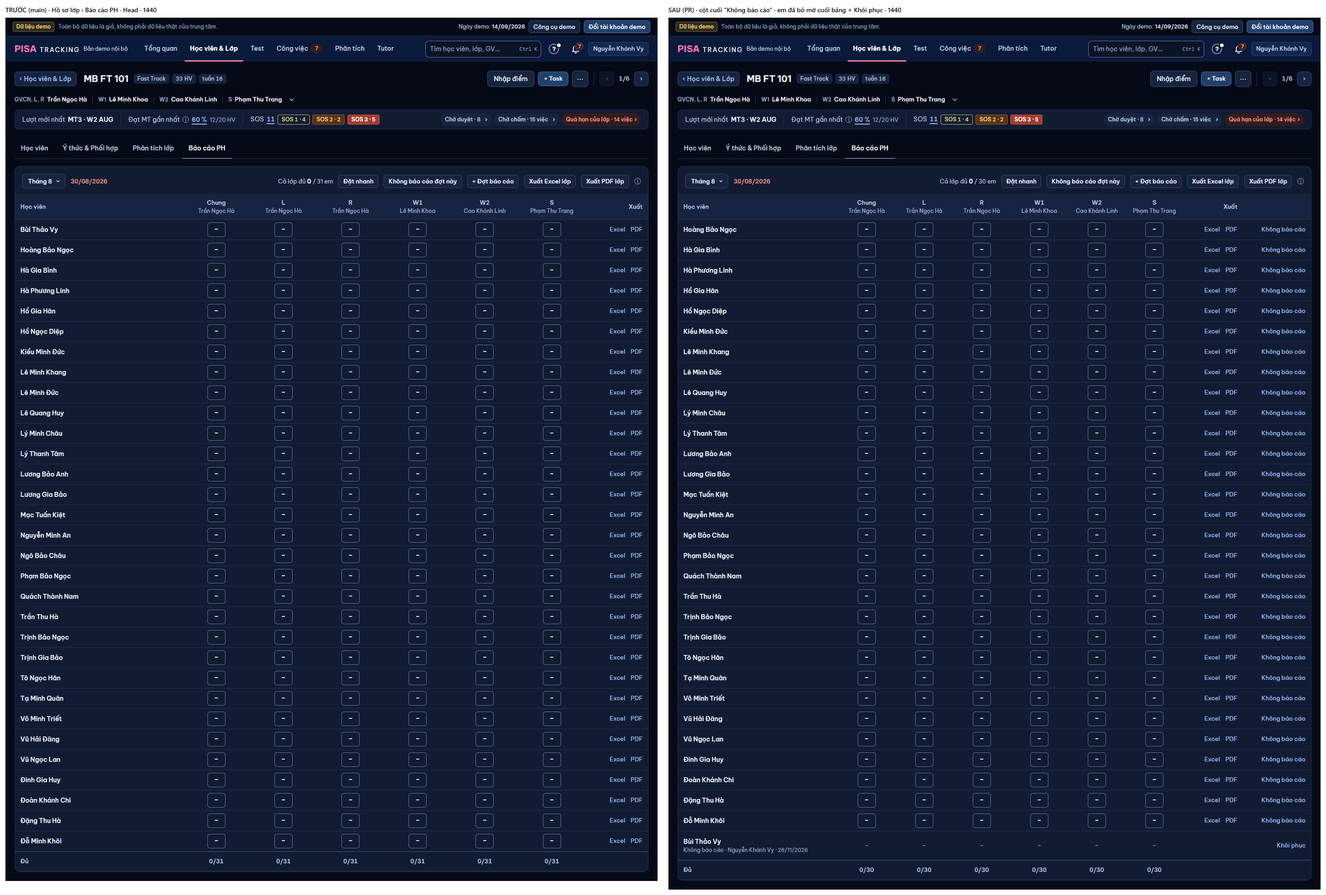
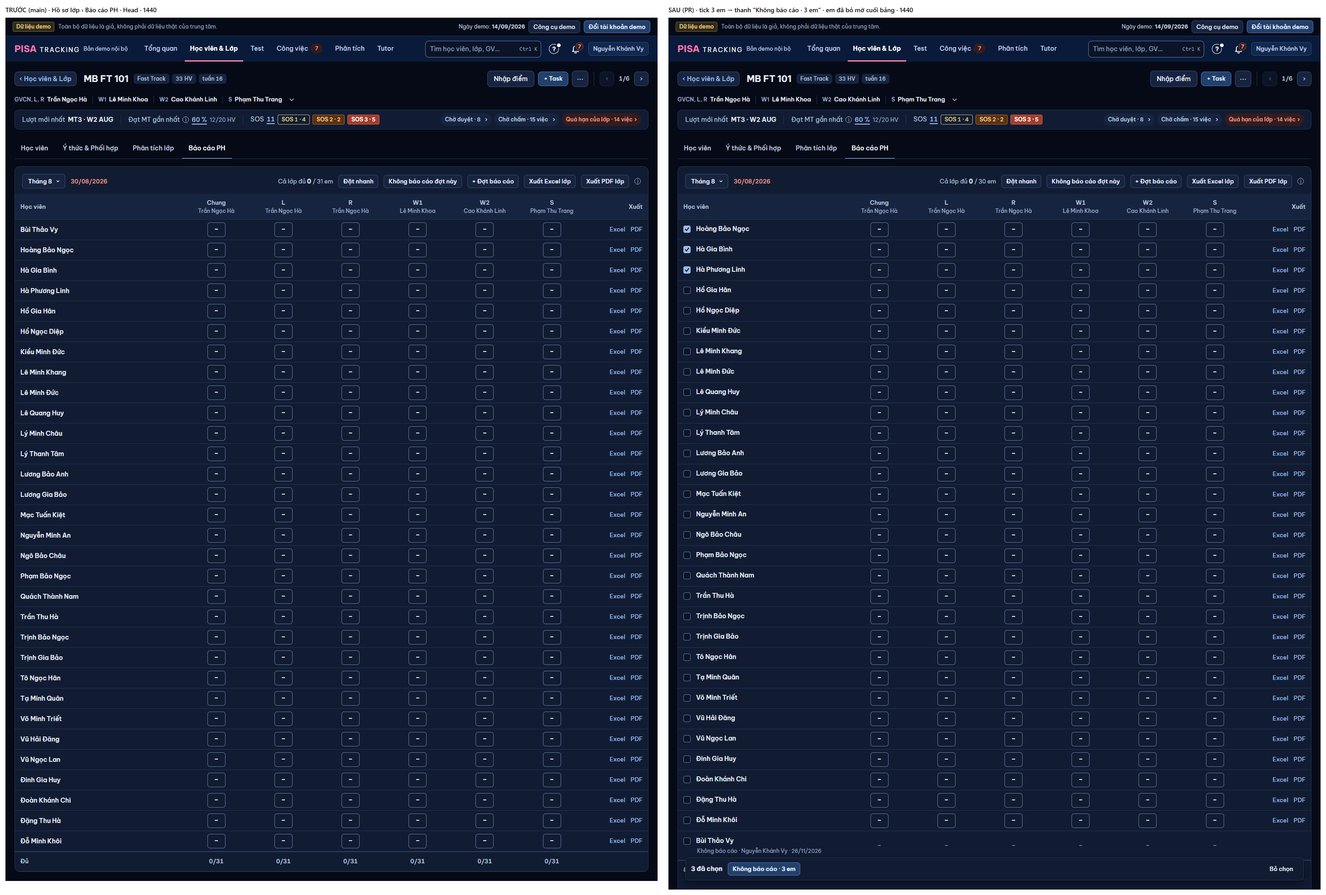
chọn nhiều em (chủ SP 'cho chọn tick nhiều đi'): API lô studentIds, ô tick + thanh dính đáy, một Hoàn tác; ảnh cặp mới

diff --git a/web/src/modules/classes/TabBaoCaoPh.tsx b/web/src/modules/classes/TabBaoCaoPh.tsx
@@ -16,6 +16,7 @@ import { ChonNguoi } from '../../ui/PeoplePicker.tsx';
 import { ChuLuu, type TtLuu } from '../../ui/KhuonViec.tsx';
 import { ODiem } from '../../ui/ODiem.tsx';
 import { HopDotBaoCaoPh, guiDotBc, lamMoiBaoCaoPh } from './HopDotBaoCaoPh.tsx';
+import { OChon, ThanhChonNhieu, useChonNhieu } from '../students/chonNhieuHocVien.tsx';
 import { ChipHan, Nhan } from '../../ui/Nhan.tsx';
 import { NutLuat } from '../../ui/NutLuat.tsx';
 import { useDienThoai } from '../../ui/TheDong.tsx';
@@ -86,6 +87,10 @@ export function TabBaoCaoPh({ lopId, ct, dot, onDot, onDuHet, onDoiDot, viet, on
   const dt = useDienThoai();
   const bo = useMemo(() => boPhanBc(ct), [ct]);
   const toast = useToast();
+  /* BO-BAO-CAO-PH (chủ SP 26/11 "cho chọn tick nhiều đi"): tick em (Head / Quản trị / Admin) → thanh dính đáy "Không báo cáo · n em" / "Khôi phục · n em". Đổi đợt = bỏ chọn. */
+  const chonGoc = useChonNhieu();
+  const [dangBo, setDangBo] = useState(false);
+  useEffect(() => chonGoc.tatCa([], false), [lopId, dot]);   // eslint-disable-line react-hooks/exhaustive-deps
   /* Xuất Excel (PR b) / PDF (BCPH-PDF): `null` = không đang xuất · "xlsx:0" = cả lớp · "pdf:{id em}". File = ảnh lúc bấm; không đánh dấu "đã xuất". */
   const [dangXuat, setDangXuat] = useState<string | null>(null);
   const [td, setTd] = useState<[number, number] | null>(null);   // tiến độ PDF cả lớp: [em đang dựng, tổng]
@@ -140,22 +145,36 @@ export function TabBaoCaoPh({ lopId, ct, dot, onDot, onDuHet, onDoiDot, viet, on
       sauDoi(null);
     } catch (e) { loiToast(e); }
   };
-  /* BO-BAO-CAO-PH (chủ SP 26/11): bỏ / khôi phục báo cáo của MỘT em đợt này — làm ngay, toast Hoàn tác (không hộp hỏi: khôi phục được, bài đã viết giữ). */
-  const boEm = async (e: { id: number; ten: string }, khoiPhuc: boolean) => {
-    const gui = (kp: boolean) => api.post(`/classes/${lopId}/bao-cao-ph/bo-em`, { dot: data.dot, studentId: e.id, khoiPhuc: kp });
+  /* BO-BAO-CAO-PH: bỏ / khôi phục báo cáo các em đã tick, đợt này — làm ngay, MỘT toast Hoàn tác cho cả lô (không hộp hỏi: khôi phục được, bài đã viết giữ). */
+  const chon = { ...chonGoc, bat: data.quyetDot };
+  const daChon = tatCa.filter((e) => chonGoc.chon.has(e.id));
+  const chonCan = daChon.filter((e) => !e.bo), chonBo = daChon.filter((e) => e.bo);
+  const boEm = async (ds: { id: number; ten: string }[], khoiPhuc: boolean) => {
+    if (!ds.length || dangBo) return;
+    const gui = async (ids: number[], kp: boolean) => (await api.post<{ doi: number[] }>(`/classes/${lopId}/bao-cao-ph/bo-em`, { dot: data.dot, studentIds: ids, khoiPhuc: kp })).doi;
+    const nhan = ds.length === 1
+      ? t(khoiPhuc ? 'Đã khôi phục báo cáo · {ten}' : 'Không báo cáo · {ten}', { ten: ds[0].ten })
+      : t(khoiPhuc ? 'Đã khôi phục báo cáo · {n} em' : 'Không báo cáo · {n} em', { n: ds.length });
+    setDangBo(true);
     try {
-      await gui(khoiPhuc); lamMoiBaoCaoPh();
-      toast.hoanTac(t(khoiPhuc ? 'Đã khôi phục báo cáo · {ten}' : 'Không báo cáo · {ten}', { ten: e.ten }), async () => {
-        try { await gui(!khoiPhuc); lamMoiBaoCaoPh(); toast.push('ok', t('Đã hoàn tác')); sauDoi(); } catch (x) { loiToast(x); }
-      }, { key: `bc-bo-em:${lopId}:${e.id}` });
+      const doi = await gui(ds.map((e) => e.id), khoiPhuc); lamMoiBaoCaoPh();
+      chonGoc.tatCa([], false);
+      if (doi.length) {
+        toast.hoanTac(nhan, async () => {
+          try { await gui(doi, !khoiPhuc); lamMoiBaoCaoPh(); toast.push('ok', t('Đã hoàn tác')); sauDoi(); } catch (x) { loiToast(x); }
+        }, { key: `bc-bo-em:${lopId}` });
+      }
       sauDoi();
-    } catch (x) { loiToast(x); }
+    } catch (x) { loiToast(x); } finally { setDangBo(false); }
   };
-  /* Một việc mỗi dòng → link bấm thẳng cùng dáng link Excel / PDF (S4-GD: ⋯ một mục = nút thẳng); em đã bỏ: "Khôi phục" đúng chỗ đó. */
-  const nutBoEm = (e: { id: number; ten: string; bo: unknown }, lop = '') => (e.bo
-    ? <button type="button" className={`link-nho min-h-[44px] font-medium sm:min-h-0 ${lop}`} aria-label={t('Khôi phục báo cáo · {ten}', { ten: e.ten })} onClick={() => void boEm(e, true)}>{t('Khôi phục')}</button>
-    : <button type="button" className={`link-nho min-h-[44px] font-medium sm:min-h-0 ${lop}`} aria-label={t('Không báo cáo · {ten}', { ten: e.ten })}
-      title={t('Chỉ đợt {dot}; bài đã viết giữ nguyên', { dot: dich(dotHien?.nhan ?? '') })} onClick={() => void boEm(e, false)}>{t('Không báo cáo')}</button>);
+  const thanhChon = data.quyetDot && (
+    <ThanhChonNhieu chon={chon} dangChay={dangBo} onViec={(k) => void boEm(k === 'bo' ? chonCan : chonBo, k !== 'bo')}
+      viec={[
+        ...(chonCan.length ? [{ key: 'bo', nhan: t('Không báo cáo · {n} em', { n: chonCan.length }), chinh: true }] : []),
+        ...(chonBo.length ? [{ key: 'khoi-phuc', nhan: t('Khôi phục · {n} em', { n: chonBo.length }), chinh: !chonCan.length }] : []),
+      ]} />
+  );
+  const oTick = (e: { id: number; ten: string }) => data.quyetDot && <OChon chon={chon} id={e.id} ten={e.ten} />;
   const nhanBo = (b: { ten: string | null; luc: string }) => [t('Không báo cáo'), b.ten, b.luc ? ngay(b.luc.slice(0, 10), homNay) : null].filter(Boolean).join(' · ');
   const nutDot = 'btn btn-sm min-h-[44px] font-semibold sm:min-h-0';
   /* Phần người xem đặt nhanh được = phần viết được (GV đúng phần · QL viết hộ — như quyền máy chủ) có tiêu chí. */
@@ -279,8 +298,7 @@ export function TabBaoCaoPh({ lopId, ct, dot, onDot, onDuHet, onDoiDot, viet, on
               <li key={e.id} className="py-2">
                 {/* BO-BAO-CAO-PH: "Không báo cáo" trên dòng tên — dòng Thiếu / Nháp giữ cả bề ngang. */}
                 <div className="flex items-center justify-between gap-2">
-                  <Link className="ten-ho-so min-w-0 text-[14px]" to={`/hoc-vien/${e.id}`}>{e.ten}</Link>
-                  {data.quyetDot && nutBoEm(e, 'shrink-0')}
+                  <span className="inline-flex min-w-0 items-center gap-2">{oTick(e)}<Link className="ten-ho-so min-w-0 text-[14px]" to={`/hoc-vien/${e.id}`}>{e.ten}</Link></span>
                 </div>
                 {!thieu.length && !nhap.length && <div className="text-[13px] text-slate-400">✓ {t('đủ')}</div>}
                 {thieu.length > 0 && <div className="flex flex-wrap items-center gap-x-1 text-[13px] text-slate-400">{t('Thiếu')} {thieu.map((p, i) => <Fragment key={p.khoa}>{i > 0 && <span aria-hidden>·</span>}{nutPhan(p)}</Fragment>)}</div>}
@@ -294,12 +312,9 @@ export function TabBaoCaoPh({ lopId, ct, dot, onDot, onDuHet, onDoiDot, viet, on
         {emBo.length > 0 && (
           <ul className="m-0 mt-2 list-none divide-y border-t p-0" style={{ borderColor: 'var(--line)' }}>
             {emBo.map((e) => (
-              <li key={e.id} className="row-muted flex items-center gap-2 py-2">
-                <div className="min-w-0 flex-1">
-                  <Link className="ten-ho-so text-[14px]" to={`/hoc-vien/${e.id}`}>{e.ten}</Link>
-                  <div className="text-[13px]">{nhanBo(e.bo!)}</div>
-                </div>
-                {data.quyetDot && nutBoEm(e, 'shrink-0')}
+              <li key={e.id} className="row-muted py-2">
+                <span className="inline-flex min-w-0 items-center gap-2">{oTick(e)}<Link className="ten-ho-so min-w-0 text-[14px]" to={`/hoc-vien/${e.id}`}>{e.ten}</Link></span>
+                <div className="text-[13px]">{nhanBo(e.bo!)}</div>
               </li>
             ))}
           </ul>
@@ -308,6 +323,7 @@ export function TabBaoCaoPh({ lopId, ct, dot, onDot, onDuHet, onDoiDot, viet, on
           <span>{t('Đủ')} /{em.length}</span>
           {data.phan.map((p) => <span key={p.khoa}>{p.ngan} <b className="tabular-nums text-slate-100">{em.filter((e) => e.o[p.khoa] === 'du').length}</b></span>)}
         </div>
+        {thanhChon}
         {panel}
         {hopDot}
       </section>
@@ -321,17 +337,15 @@ export function TabBaoCaoPh({ lopId, ct, dot, onDot, onDuHet, onDoiDot, viet, on
       <div className="bang-bc -mx-4 -mb-4 overflow-clip rounded-b-[inherit]">
         <Bang ten={`${t('Báo cáo PH')} · ${dich(dotHien!.nhan)}`} khung={false} the375={false} deu khoa={(e) => e.id} hang={[...em, ...emBo]}
           lopHang={(e) => (e.bo ? 'row-muted' : '')}
-          phuCua={(e, c) => (c.key === 'ten' && e.bo ? nhanBo(e.bo) : null)}
+          phuCua={(e, c) => (c.key === 'ten' && e.bo ? <span className={data.quyetDot ? 'pl-[30px]' : undefined}>{nhanBo(e.bo)}</span> : null)}   /* thẳng tên (ô tick 18 + khe 12) */
           cot={[
             { key: 'ten', nhan: t('Học viên'), kieu: 'ten', rong: 300 },
-            ...data.phan.map((p): CotBang => ({ key: p.khoa, nhan: p.ngan, phu: tenGv(p), kieu: 'so', rong: data.quyetDot ? 108 : 120, goiY: p.ten })),   // BO-BAO-CAO-PH: + cột "Không báo cáo" vẫn vừa 1280
+            ...data.phan.map((p): CotBang => ({ key: p.khoa, nhan: p.ngan, phu: tenGv(p), kieu: 'so', rong: 120, goiY: p.ten })),
             ...(data.xuat ? [{ key: 'xuat', nhan: t('Xuất'), kieu: 'nut', rong: 112 } as CotBang] : []),
-            ...(data.quyetDot ? [{ key: 'nut', nhan: t('Không báo cáo'), anNhan: true, kieu: 'nut', rong: 128 } as CotBang] : []),
           ]}
           oCua={(e, c) => {
-            if (c.key === 'ten') return <Link className="ten-hv ten-ho-so" to={`/hoc-vien/${e.id}`}>{e.ten}</Link>;
-            /* BO-BAO-CAO-PH: dòng em đã bỏ — ô phần "–" mờ (không viết, không đếm), không Xuất; cột cuối "Không báo cáo" / "Khôi phục". */
-            if (c.key === 'nut') return nutBoEm(e);
+            if (c.key === 'ten') return <span className="inline-flex min-w-0 items-center gap-3">{oTick(e)}<Link className="ten-hv ten-ho-so" to={`/hoc-vien/${e.id}`}>{e.ten}</Link></span>;
+            /* BO-BAO-CAO-PH: dòng em đã bỏ — ô phần "–" mờ (không viết, không đếm), không Xuất; tick để Khôi phục. */
             if (e.bo) return c.key === 'xuat' ? null : <><span aria-hidden>–</span><span className="sr-only">{t('Không báo cáo')}</span></>;
             if (c.key === 'xuat') {
               return (
@@ -358,10 +372,10 @@ export function TabBaoCaoPh({ lopId, ct, dot, onDot, onDuHet, onDoiDot, viet, on
               <td className="td" data-kieu="ten">{t('Đủ')}</td>
               {data.phan.map((p) => <td key={p.khoa} className="td" data-kieu="so">{em.filter((e) => e.o[p.khoa] === 'du').length}/{em.length}</td>)}
               {data.xuat && <td className="td" data-kieu="nut" />}
-              {data.quyetDot && <td className="td" data-kieu="nut" />}
             </tr>
           )} />
       </div>
+      {thanhChon}
       {panel}
       {hopDot}
     </section>

diff --git a/server/src/tests/prBaoCaoPh.tests.ts b/server/src/tests/prBaoCaoPh.tests.ts
@@ -590,19 +590,19 @@ export async function runPrBaoCaoPhTests(t: { check: any; assert: any; assertThr
     const tvv = nguoi('consultant', 'MB');
     for (const x of [P.lrTeacher, P.coreTeacher, tvv, P.cpManager].filter(Boolean)) {
       let ma403 = 0;
-      try { bc.boEmBaoCaoPh(x, lop, { dot: ma, studentId: e0.id }); } catch (err: any) { ma403 = err?.status ?? -1; }
+      try { bc.boEmBaoCaoPh(x, lop, { dot: ma, studentIds: [e0.id] }); } catch (err: any) { ma403 = err?.status ?? -1; }
       assert(ma403 === 403, `${x.fullName}: phải 403, được ${ma403}`);
     }
     assert(bc.trangBaoCaoPh(P.lrTeacher, lop, ma).quyetDot === false, 'GV không thấy ⋯ Không báo cáo');
-    assertThrows(() => bc.boEmBaoCaoPh(P.mbManager, lop, { dot: 'thang:2099-01', studentId: e0.id }), /./, 'đợt chưa mở');
-    assertThrows(() => bc.boEmBaoCaoPh(P.mbManager, lop, { dot: ma, studentId: 99999999 }), /./, 'em lạ');
-    assertThrows(() => bc.boEmBaoCaoPh(P.mbManager, lop, { dot: ma, studentId: e0.id, khoiPhuc: 'true' }), /./, 'khoiPhuc không phải boolean → 400');
+    assertThrows(() => bc.boEmBaoCaoPh(P.mbManager, lop, { dot: 'thang:2099-01', studentIds: [e0.id] }), /./, 'đợt chưa mở');
+    assertThrows(() => bc.boEmBaoCaoPh(P.mbManager, lop, { dot: ma, studentIds: [99999999] }), /./, 'em lạ');
+    assertThrows(() => bc.boEmBaoCaoPh(P.mbManager, lop, { dot: ma, studentIds: [e0.id], khoiPhuc: 'true' }), /./, 'khoiPhuc không phải boolean → 400');
     /* em CÓ THẬT của lớp khác (cùng chi nhánh) qua id lớp mình → 404, không ghi */
     const lopKhac = classId('MB FT 102');
     const emKhac = (conn.prepare("SELECT student_id id FROM enrollments WHERE class_id = ? AND status = 'active' AND student_id NOT IN (SELECT student_id FROM enrollments WHERE class_id = ?) LIMIT 1").get(lopKhac, lop) as any)?.id;
     if (emKhac) {
       let ma404 = 0;
-      try { bc.boEmBaoCaoPh(P.mbManager, lop, { dot: ma, studentId: emKhac }); } catch (err: any) { ma404 = err?.status ?? -1; }
+      try { bc.boEmBaoCaoPh(P.mbManager, lop, { dot: ma, studentIds: [emKhac] }); } catch (err: any) { ma404 = err?.status ?? -1; }
       assert(ma404 === 404 && !(conn.prepare('SELECT 1 FROM bao_cao_ph_bo_em WHERE student_id = ?').get(emKhac)), `em lớp khác: phải 404, được ${ma404}`);
     }
     /* bỏ theo LỚP: dòng bỏ ghi ở lớp khác (cùng mã đợt) không làm em rời lớp này */
@@ -614,11 +614,11 @@ export async function runPrBaoCaoPhTests(t: { check: any; assert: any; assertThr
     /* Head bỏ — đo câu */
     xoaNho();
     const c0 = soCauSql();
-    const r = bc.boEmBaoCaoPh(P.mbManager, lop, { dot: ma, studentId: e0.id });
+    const r = bc.boEmBaoCaoPh(P.mbManager, lop, { dot: ma, studentIds: [e0.id] });
     const cau = soCauSql() - c0;
     console.log(`    đo bỏ báo cáo một em: ${cau} câu`);
-    assert(r.doi === true && cau <= 14, `trần câu bỏ một em: ${cau}`);   // lớp + đợt (tiến độ, tuỳ chỉnh) + em + ghi + nhật ký + đếm lớp đủ / tin Admin
-    assert(bc.boEmBaoCaoPh(P.mbManager, lop, { dot: ma, studentId: e0.id }).doi === false, 'bỏ lặp: không lỗi, không ghi thêm');
+    assert(r.doi.join() === String(e0.id) && cau <= 14, `trần câu bỏ một em: ${cau}`);   // lớp + đợt (tiến độ, tuỳ chỉnh) + em + ghi + nhật ký + đếm lớp đủ / tin Admin
+    assert(bc.boEmBaoCaoPh(P.mbManager, lop, { dot: ma, studentIds: [e0.id] }).doi.length === 0, 'bỏ lặp: không lỗi, không ghi thêm');
     xoaNho();
     const sau = bc.trangBaoCaoPh(P.mbManager, lop, ma);
     const s0 = sau.em.find((e: any) => e.id === e0.id);
@@ -657,12 +657,38 @@ export async function runPrBaoCaoPhTests(t: { check: any; assert: any; assertThr
     assert(nk.n === 1, 'nhật ký một dòng theo em');
 
     /* Hoàn tác (= Khôi phục) → em trở lại mọi nơi */
-    assert(bc.boEmBaoCaoPh(P.mbManager, lop, { dot: ma, studentId: e0.id, khoiPhuc: true }).doi === true, 'khôi phục');
+    assert(bc.boEmBaoCaoPh(P.mbManager, lop, { dot: ma, studentIds: [e0.id], khoiPhuc: true }).doi.length === 1, 'khôi phục');
     xoaNho();
     assert(bc.trangBaoCaoPh(P.mbManager, lop, ma).em.find((e: any) => e.id === e0.id)?.bo === null, 'tab: em trở lại bình thường');
     assert(cuaS()[0]?.soEm === n && cuaS()[0]?.thieu === 1, 'việc GV S trở lại, thiếu đúng em vừa khôi phục');
     assert(bc.phanBaoCaoPh(P.lrTeacher, lop, ma, 'listening').em.find((e: any) => e.id === e0.id)?.banGhi?.chu === 'Gõ nốt', 'chữ đã gõ còn');
-    if (admin) assert(dq && bc.boEmBaoCaoPh(admin, lop, { dot: ma, studentId: e0.id }).doi === true, 'Admin bỏ được');
+    if (admin) assert(dq && bc.boEmBaoCaoPh(admin, lop, { dot: ma, studentIds: [e0.id] }).doi.length === 1, 'Admin bỏ được');
+    if (admin) bc.boEmBaoCaoPh(admin, lop, { dot: ma, studentIds: [e0.id], khoiPhuc: true });
+
+    /* LÔ (chủ SP "cho chọn tick nhiều đi"): bỏ 3 em một lần — số câu không theo số em; một em lạ → 404 cả lô, không ghi; Hoàn tác lô trả đủ */
+    const ba = tr.em.slice(1, 4).map((e: any) => e.id);
+    let maLo = 0;
+    try { bc.boEmBaoCaoPh(P.mbManager, lop, { dot: ma, studentIds: [...ba, 99999999] }); } catch (err: any) { maLo = err?.status ?? -1; }
+    assert(maLo === 404 && !(conn.prepare(`SELECT 1 FROM bao_cao_ph_bo_em WHERE dot = ? AND class_id = ? AND student_id IN (${ba.join(',')})`).get(ma, lop)), 'lô có em lạ: 404, không ghi em nào');
+    assertThrows(() => bc.boEmBaoCaoPh(P.mbManager, lop, { dot: ma, studentIds: [] }), /./, 'lô rỗng');
+    assertThrows(() => bc.boEmBaoCaoPh(P.mbManager, lop, { dot: ma, studentIds: Array.from({ length: 201 }, (_, i) => i + 1) }), /./, 'quá 200 em');
+    let ma403lo = 0;
+    try { bc.boEmBaoCaoPh(P.lrTeacher, lop, { dot: ma, studentIds: ba }); } catch (err: any) { ma403lo = err?.status ?? -1; }
+    assert(ma403lo === 403, 'GV bỏ lô → 403');
+    xoaNho();
+    const cl = soCauSql();
+    const lo = bc.boEmBaoCaoPh(P.mbManager, lop, { dot: ma, studentIds: [...ba, e0.id] });
+    const cauLo = soCauSql() - cl;
+    console.log(`    đo bỏ lô ${ba.length + 1} em: ${cauLo} câu`);
+    assert(lo.doi.length === 4 && cauLo <= 16,   // + tin Admin "đủ" (lớp vừa đủ) — không theo số em
+      `lô 4 em: ${JSON.stringify(lo)} · ${cauLo} câu`);
+    xoaNho();
+    assert(bc.trangBaoCaoPh(P.mbManager, lop, ma).em.filter((e: any) => e.bo).length === 4 && !cuaS().length, 'tab: 4 em bỏ; GV S hết việc (em còn thiếu duy nhất đã bỏ)');
+    const nkLo = conn.prepare(`SELECT COUNT(*) n FROM audit_logs WHERE action = 'bao_cao_ph.bo_em' AND entity_id IN (${ba.join(',')})`).get() as any;
+    assert(nkLo.n === 3, 'nhật ký mỗi em của lô');
+    assert(bc.boEmBaoCaoPh(P.mbManager, lop, { dot: ma, studentIds: lo.doi, khoiPhuc: true }).doi.length === 4, 'Hoàn tác lô');
+    xoaNho();
+    assert(cuaS()[0]?.soEm === n && bc.trangBaoCaoPh(P.mbManager, lop, ma).em.every((e: any) => e.bo === null), 'Hoàn tác lô: mọi em trở lại');
 
     /* chỉ đúng đợt đó: đợt sau em vẫn báo cáo */
     const ma2 = dq.doiDotBaoCaoPh(P.mbManager, { viec: 'them', classIds: [lop], ten: 'Đợt sau', mo: TODAY, han }).ma[0].ma;

diff --git a/server/src/classes/baoCaoPh.ts b/server/src/classes/baoCaoPh.ts
@@ -12,7 +12,7 @@ import { coNho, nho } from '../platform/nguCanhRequest.ts';
 import { kyVongCuaLuot } from '../fasttrack/attempts.ts';
 import { notify, nguoiVaiCuaChiNhanh, writeAudit, writeAuditLo } from '../platform/audit.ts';
 import { HV_DANG_HOC_SQL } from '../students/tamDung.ts';
-import { badRequest, chuTuDo, forbidden, notFound, nowIso, toInt } from '../util.ts';
+import { badRequest, chuTuDo, forbidden, loi, notFound, nowIso, toInt } from '../util.ts';
 import { classProgressMany } from './schedule.ts';
 import {
   MUC_BC, RATIO_PASS_THRESHOLD, VAI_XUAT_BC, boPhanBc, docDiemSua, dotMacDinh, dotTruoc, dsDotLop, nhanDotBc, phanDu, soNgayQuaHan, tieuChiPhan, tieuChiTrong,
@@ -440,37 +440,48 @@ export function datNhanhBaoCaoPh(p: Principal, classId: number, body: any) {
   return { o: ket, soO: ket.reduce((n, k) => n + k.khoa.length, 0), boQua, loi, thieuChu, suaLuc: luc };
 }
 
+/** Tối đa em một lần bỏ / khôi phục (lớp đông nhất ~40 em). */
+const TOI_DA_BO_EM = 200;
 /**
- * POST /classes/:id/bao-cao-ph/bo-em { dot, studentId, khoiPhuc? } — BO-BAO-CAO-PH (chủ SP 26/11: "cho Admin/ Head có thể bỏ không báo cáo của một vài học sinh đơn lẻ").
- * Bỏ: em không cần Báo cáo PH ĐỢT NÀY (đợt sau vẫn báo cáo) — rời việc GV, chip tab, việc Admin / QL, "n/N", tệp xuất (`emTrongDot`). Bài đã viết GIỮ (không xoá chữ);
- * không có trạng thái "đã gửi" (xuất là ảnh lúc bấm) nên bỏ được cả khi em đã đủ. Khôi phục (= Hoàn tác) xoá dòng. Quyền như bỏ đợt (`quyetDot`: Head · Quản trị · Admin
- * chi nhánh lớp; GV / TVV 403). Lặp lại không lỗi (bấm Hoàn tác hai lần). Nhật ký theo em (hồ sơ HV › Lịch sử).
- * Turso: lớp (nhớ) + đợt (tiến độ, tuỳ chỉnh) + em (1) + 1 ghi + 1 nhật ký; bỏ em cuối còn thiếu → + 2 câu tin Admin "đủ".
+ * POST /classes/:id/bao-cao-ph/bo-em { dot, studentIds, khoiPhuc? } — BO-BAO-CAO-PH (chủ SP 26/11: "cho Admin/ Head có thể bỏ không báo cáo của một vài học sinh đơn lẻ"
+ * · "cho chọn tick nhiều đi"). Bỏ: các em không cần Báo cáo PH ĐỢT NÀY Ở LỚP NÀY (đợt sau vẫn báo cáo) — rời việc GV, chip tab, việc Admin / QL, "n/N", tệp xuất
+ * (`emTrongDot`). Bài đã viết GIỮ (không xoá chữ); không có trạng thái "đã gửi" (xuất là ảnh lúc bấm) nên bỏ được cả em đã đủ. Khôi phục (= Hoàn tác) xoá dòng.
+ * Quyền như bỏ đợt (`quyetDot`: Head · Quản trị · Admin chi nhánh lớp; GV / TVV 403). Một em không thuộc lớp × đợt → 404 cả lô (không ghi gì). Em đã ở trạng thái
+ * đích bỏ qua (bấm Hoàn tác hai lần không lỗi); `doi` = em thật sự đổi. Nhật ký mỗi em (hồ sơ HV › Lịch sử).
+ * Turso: lớp (nhớ) + đợt (tiến độ, tuỳ chỉnh) + em (1) + 1 ghi nhiều dòng + 1 nhật ký nhiều dòng — không theo số em; bỏ em cuối còn thiếu → + 2 câu tin Admin "đủ".
  */
 export function boEmBaoCaoPh(p: Principal, classId: number, body: any) {
   const c = docLop(classId);
   const homNay = demoToday();
   if (!quyenBc(p, c, homNay).quyetDot) throw forbidden('Chỉ Head, Quản trị, Admin của chi nhánh bỏ được báo cáo PH của học viên.');
+  if (body?.khoiPhuc !== undefined && typeof body.khoiPhuc !== 'boolean') throw badRequest('Yêu cầu không hợp lệ');
+  const tho = Array.isArray(body?.studentIds) ? body.studentIds : [];
+  const sids = [...new Set(tho.map(toInt))] as (number | null)[];
+  if (!sids.length || sids.some((x) => !x || x < 1)) throw badRequest('Chọn ít nhất một học viên');
+  if (sids.length > TOI_DA_BO_EM) throw loi(400, 'Tối đa {n} học viên một lần', { n: TOI_DA_BO_EM });
   const d0 = dotCuaLop(c, homNay);
   if (!d0) throw badRequest('Chương trình của lớp chưa có mẫu báo cáo PH');
   const d = d0.ds.find((x) => x.ma === String(body?.dot ?? ''));
   if (!d) throw badRequest('Đợt báo cáo chưa mở hoặc không có ở lớp này');
-  const sid = toInt(body?.studentId);
   const emDot = emCuaDot(classId, d, homNay, true);
-  const e = sid ? emDot.find((x) => x.id === sid) : undefined;
-  if (!e) throw notFound('Học viên không có trong đợt báo cáo này');   // em lớp khác (kể cả id thật) qua id lớp mình
-  if (body?.khoiPhuc !== undefined && typeof body.khoiPhuc !== 'boolean') throw badRequest('Yêu cầu không hợp lệ');
+  const theoId = new Map(emDot.map((e) => [e.id, e]));
+  if (sids.some((x) => !theoId.has(x!))) throw notFound('Học viên không có trong đợt báo cáo này');   // em lớp khác (kể cả id thật) qua id lớp mình
   const khoiPhuc = body?.khoiPhuc === true;
-  if (e.bo === !khoiPhuc) return { doi: false };
+  const doi = sids.map((x) => theoId.get(x!)!).filter((e) => e.bo === khoiPhuc);
+  if (!doi.length) return { doi: [] as number[] };
   const luc = nowIso();
+  const ids = JSON.stringify(doi.map((e) => e.id));
   tx(() => {
-    if (khoiPhuc) db().prepare('DELETE FROM bao_cao_ph_bo_em WHERE student_id = ? AND class_id = ? AND dot = ?').run(e.id, classId, d.ma);
-    else db().prepare('INSERT INTO bao_cao_ph_bo_em (student_id, dot, class_id, nguoi, luc) VALUES (?, ?, ?, ?, ?)').run(e.id, d.ma, classId, p.userId, luc);
-    writeAudit({ actorUserId: p.userId, action: khoiPhuc ? 'bao_cao_ph.bo_em_khoi_phuc' : 'bao_cao_ph.bo_em', entityType: 'student', entityId: e.id, entityLabel: c.code,
-      after: { dot: d.ma, nhan: nhanDotBc(d, homNay) } });
+    if (khoiPhuc) db().prepare(`DELETE FROM bao_cao_ph_bo_em WHERE class_id = ? AND dot = ? AND student_id IN (${DS_JSON})`).run(classId, d.ma, ids);
+    else chenNhieuDong('INSERT INTO bao_cao_ph_bo_em (student_id, dot, class_id, nguoi, luc)', doi.map((e) => [e.id, d.ma, classId, p.userId, luc]));
+    writeAuditLo(doi.map((e) => ({ actorUserId: p.userId, action: khoiPhuc ? 'bao_cao_ph.bo_em_khoi_phuc' : 'bao_cao_ph.bo_em', entityType: 'student', entityId: e.id,
+      entityLabel: c.code, after: { dot: d.ma, nhan: nhanDotBc(d, homNay) } })));
   });
-  if (!khoiPhuc) baoAdminLopDu(c, d, d0.bo, emDot.filter((x) => !x.bo && x.id !== e.id), homNay);
-  return { doi: true, luc };
+  if (!khoiPhuc) {
+    const bo = new Set(doi.map((e) => e.id));
+    baoAdminLopDu(c, d, d0.bo, emDot.filter((x) => !x.bo && !bo.has(x.id)), homNay);
+  }
+  return { doi: doi.map((e) => e.id), luc };
 }
 
 /**

diff --git a/shared/i18n/en/baoCaoPh.ts b/shared/i18n/en/baoCaoPh.ts
@@ -129,9 +129,12 @@ export const EN_BAO_CAO_PH = {
   'Mọi em đủ báo cáo; dòng tự rời.': 'Every student has a complete report; the row leaves by itself.',
   'Đợt không cần: <b>Không báo cáo đợt này</b>.': 'Round not needed: <b>No report this round</b>.',
   /* BO-BAO-CAO-PH (chủ SP 26/11): bỏ báo cáo PH của một em trong một đợt. */
-  'Chỉ đợt {dot}; bài đã viết giữ nguyên': 'This round only ({dot}); written parts are kept',
   'Không báo cáo · {ten}': 'No report · {ten}',
   'Đã khôi phục báo cáo · {ten}': 'Report restored · {ten}',
-  'Khôi phục báo cáo · {ten}': 'Restore report · {ten}',
+  'Yêu cầu không hợp lệ': 'Invalid request',
+  'Tối đa {n} học viên một lần': 'At most {n} students at a time',
+  'Không báo cáo · {n} em': 'No report · {n} students',
+  'Khôi phục · {n} em': 'Restore · {n} students',
+  'Đã khôi phục báo cáo · {n} em': 'Report restored · {n} students',
   'Chỉ Head, Quản trị, Admin của chi nhánh bỏ được báo cáo PH của học viên.': 'Only Heads, System Admins and Admins of the branch can drop a student’s parent report.',
 } satisfies Record<string, Dich>;

diff --git a/web/src/ui/Bang.tsx b/web/src/ui/Bang.tsx
@@ -154,7 +154,7 @@ export function Bang<H>({ ten, cot, hang, khoa, oCua = () => null, phuCua, congC
               {cot.map((c) => (
                 <th key={c.key} scope="col" data-kieu={c.kieu} data-linh={c.linhHoat || undefined} data-tinh={c.tinh || undefined} data-tach={c.tach || undefined} data-sang={c.sang || undefined} data-vn={vien.get(c.key)} title={c.goiY}
                   className={`th ${c.kieu === 'ten' ? 'sticky-col' : ''}`}>
-                  {c.anNhan ? <span className="sr-only">{c.nhan}</span> : c.nhan}{c.dv && <span className="bang-dv"> · {c.dv}</span>}{c.phu && <span className="bang-chu-thich"> {c.phu}</span>}
+                  {c.nhan}{c.dv && <span className="bang-dv"> · {c.dv}</span>}{c.phu && <span className="bang-chu-thich"> {c.phu}</span>}
                 </th>
               ))}
             </tr>

diff --git a/shared/domain/bang.ts b/shared/domain/bang.ts
@@ -35,8 +35,6 @@ export type DinhNghiaCot = {
   rong?: number;
   /** Chữ giải thích khi rê lên tiêu đề (title — không phải câu dưới tiêu đề). */
   goiY?: string;
-  /** BO-BAO-CAO-PH: tiêu đề chỉ cho trình đọc màn (`sr-only`) — cột thao tác cuối dòng không cần chữ hiện. */
-  anNhan?: boolean;
   /** BANG-1: cột đang được mở từ Lịch Test / việc — tiêu đề màu nhấn. */
   sang?: boolean;
   /** Cột máy tính sẵn (W tổng) — nền xám cả tiêu đề lẫn ô (04 mục 6.3). */

diff --git a/docs/anh/bo-bao-cao-ph/khop-khac.md b/docs/anh/bo-bao-cao-ph/khop-khac.md
@@ -1,23 +1,26 @@
-# BO-BAO-CAO-PH — bỏ Báo cáo PH của từng em (chủ SP 26/11)
+# BO-BAO-CAO-PH — bỏ Báo cáo PH của từng em, chọn nhiều (chủ SP 26/11)
 
-Không mockup: thêm link theo mẫu sẵn có ở dòng em (cùng dáng link Excel / PDF), không đổi bố cục (plan.md 1.3b).
-Ảnh cặp TRƯỚC (main) | SAU (PR), tab Báo cáo PH, Head MB, lớp MB FT 101: `1440-` · `1280-` (tối) · `375-` (sáng) `bao-cao-ph-truoc-sau.png`.
+Không mockup: ô tick + thanh thao tác dính đáy theo khuôn chọn nhiều sẵn có (`chonNhieuHocVien.tsx` — Lưu trữ, Học viên lớp), không đổi bố cục (plan.md 1.3b).
+Ảnh cặp TRƯỚC (main) | SAU (PR, đang tick 3 em, một em đã bỏ), tab Báo cáo PH, Head MB, lớp MB FT 101:
+`1440-` · `1280-` (tối) · `375-` (sáng) `bao-cao-ph-truoc-sau.png`.
 
 ## Thao tác TRƯỚC → SAU
 
 | Thao tác | Trước | Sau |
 |---|---|---|
-| Bỏ báo cáo MỘT em một đợt | Không có (chỉ "Không báo cáo đợt này" cho cả lớp) | Head / Quản trị / Admin: link "Không báo cáo" cuối dòng em (375: trên dòng tên) → làm ngay, toast Hoàn tác |
-| Khôi phục em đã bỏ | — | Link "Khôi phục" đúng chỗ đó ở dòng mờ cuối bảng (375: danh sách mờ sau "Xem thêm") |
-| Thấy em đã bỏ | — | Dòng mờ cuối bảng: "Không báo cáo · {người bỏ} · {ngày}", ô phần "–", không Xuất |
+| Bỏ báo cáo một / nhiều em một đợt | Không có (chỉ "Không báo cáo đợt này" cho cả lớp) | Head / Quản trị / Admin: tick em (ô đầu dòng; 375: trên dòng tên) → thanh dính đáy "n đã chọn · Không báo cáo · n em · Bỏ chọn" → làm ngay, MỘT toast Hoàn tác cho cả lô |
+| Khôi phục em đã bỏ | — | Tick dòng mờ → "Khôi phục · n em" (chọn lẫn hai loại: hiện cả hai nút) |
+| Thấy em đã bỏ | — | Dòng mờ cuối bảng: "Không báo cáo · {người bỏ} · {ngày}", ô phần "–", không Xuất; 375: danh sách mờ sau "Xem thêm" |
 | "Cả lớp đủ n / N", hàng Đủ, "bạn còn n / m", Đặt nhanh, nút "Viết …" (375) | Mọi em | Chỉ em cần báo cáo |
 | Viết / xem phần, Xuất Excel / PDF lớp, Xuất từng em, Đặt nhanh, + Đợt, Không báo cáo đợt này, Sửa / Xoá đợt | Có | Giữ nguyên (không mất thao tác nào) |
-| GV, TVV | — | Không thấy link; gọi thẳng API → 403 |
+| GV, TVV | — | Không có ô tick; gọi thẳng API → 403 |
+| Đổi đợt | — | Bỏ chọn (chọn theo đợt) |
 
 ## Ngoài màn (cùng một hàm `emTrongDot`)
 Em đã bỏ rời: việc GV "Báo cáo PH" (Công việc, chuông, badge), chip tab lớp, việc Admin "Xuất báo cáo PH", nhắc QL "Báo cáo PH quá hạn",
-Excel / PDF lớp + Xuất Excel nhiều lớp theo tháng. Bỏ em cuối còn thiếu → lớp "đủ" → tin Admin như khi viết xong.
+Excel / PDF lớp + Xuất Excel nhiều lớp theo tháng. Bỏ em cuối còn thiếu → lớp "đủ" → tin Admin + việc Xuất (ngày đủ = sau cùng của lần lưu / lần bỏ).
+Bỏ theo LỚP: em học hai lớp, bỏ ở lớp A không ảnh hưởng lớp B.
 
 ## Chỉnh nhỏ
-- Cột phần 120 → 108 px khi người xem có cột "Không báo cáo" — bảng vừa 1280 không cắt chữ (1440 vẫn chia đều).
-- Không hộp hỏi lý do: bỏ là làm ngay + Hoàn tác (khôi phục được, bài đã viết giữ) — luật "không thêm bước". Lịch sử: ai / lúc nào trên dòng + nhật ký em (hồ sơ HV › Lịch sử).
+- Không tiêu đề cột "chọn tất cả" (luật V5: không điều khiển trong tiêu đề bảng).
+- Không hộp hỏi lý do: bỏ là làm ngay + Hoàn tác (khôi phục được, bài đã viết giữ) — luật "không thêm bước". Lịch sử: ai / lúc nào trên dòng + nhật ký mỗi em (hồ sơ HV › Lịch sử).
